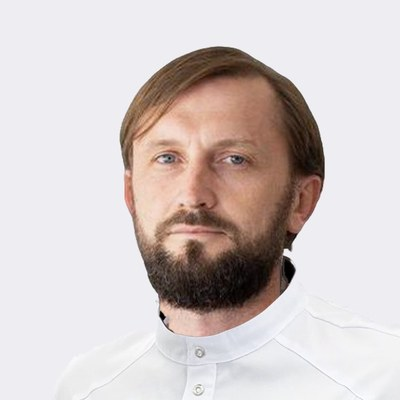
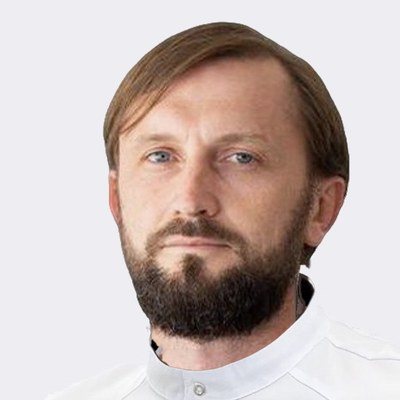
Поникаров: лицо в кружке крупнее (как у Мефаевой)

diff --git a/app-concept.html b/app-concept.html
@@ -6,9 +6,9 @@
   <title>Приложение «Колибри» — концепция</title>
   <meta name="description" content="Концепция мобильного приложения детской клиники «Колибри»: функционал по референсу, экраны в фирменном стиле, интеграция с МИС МЕДМИС.">
   <link rel="icon" href="img/logo.png" type="image/png">
-  <link rel="stylesheet" href="css/fonts.css?v=202610061326">
+  <link rel="stylesheet" href="css/fonts.css?v=202610061332">
 
-  <link rel="stylesheet" href="css/style.css?v=202610061326">
+  <link rel="stylesheet" href="css/style.css?v=202610061332">
   <style>
     /* ---------- страница ---------- */
     .concept-hero { background: linear-gradient(120deg, var(--p600), var(--p800)); color: #fff; border-radius: 32px; padding: 44px 48px; margin-top: 24px; display: grid; grid-template-columns: 1.2fr .8fr; gap: 32px; align-items: center; position: relative; overflow: hidden; }
@@ -777,8 +777,8 @@
   <symbol id="a-alert" viewBox="0 0 24 24" fill="none" stroke="currentColor" stroke-width="2" stroke-linecap="round" stroke-linejoin="round"><circle cx="12" cy="12" r="9"/><path d="M12 7v6M12 16h.01"/></symbol>
 </svg>
 
-<script src="js/data.js?v=202610061326"></script>
-<script src="js/photos.js?v=202610061326"></script>
-<script src="js/main.js?v=202610061326"></script>
+<script src="js/data.js?v=202610061332"></script>
+<script src="js/photos.js?v=202610061332"></script>
+<script src="js/main.js?v=202610061332"></script>
 </body>
 </html>

diff --git a/index.html b/index.html
@@ -6,9 +6,9 @@
   <title>Детская клиника «Колибри» — Симферополь, с. Мирное | Забота с первых дней</title>
   <meta name="description" content="Детская клиника «Колибри» в с. Мирное (Симферопольский район): педиатр-неонатолог, сопровождение недоношенных детей, УЗИ экспертного класса от 0 до 99 лет, вакцинация с рождения. Запись: +7 (978) 130-00-30">
   <link rel="icon" href="img/logo.png" type="image/png">
-  <link rel="stylesheet" href="css/fonts.css?v=202610061326">
+  <link rel="stylesheet" href="css/fonts.css?v=202610061332">
 
-  <link rel="stylesheet" href="css/style.css?v=202610061326">
+  <link rel="stylesheet" href="css/style.css?v=202610061332">
 </head>
 <body>
 
@@ -236,8 +236,8 @@
   </div>
 </section>
 
-<script src="js/data.js?v=202610061326"></script>
-<script src="js/photos.js?v=202610061326"></script>
-<script src="js/main.js?v=202610061326"></script>
+<script src="js/data.js?v=202610061332"></script>
+<script src="js/photos.js?v=202610061332"></script>
+<script src="js/main.js?v=202610061332"></script>
 </body>
 </html>

diff --git a/ceny.html b/ceny.html
@@ -6,9 +6,9 @@
   <title>Программы наблюдения и цены — Детская клиника «Колибри», с. Мирное</title>
   <meta name="description" content="Цены детской клиники «Колибри»: программы наблюдения детей от рождения до 6 и до 12 месяцев, осмотры педиатра, неонатолога, офтальмолога с сопровождением в мессенджере, пакет для недоношенных детей.">
   <link rel="icon" href="img/logo.png" type="image/png">
-  <link rel="stylesheet" href="css/fonts.css?v=202610061326">
+  <link rel="stylesheet" href="css/fonts.css?v=202610061332">
 
-  <link rel="stylesheet" href="css/style.css?v=202610061326">
+  <link rel="stylesheet" href="css/style.css?v=202610061332">
 </head>
 <body>
 
@@ -62,8 +62,8 @@
   </div>
 </section>
 
-<script src="js/data.js?v=202610061326"></script>
-<script src="js/photos.js?v=202610061326"></script>
-<script src="js/main.js?v=202610061326"></script>
+<script src="js/data.js?v=202610061332"></script>
+<script src="js/photos.js?v=202610061332"></script>
+<script src="js/main.js?v=202610061332"></script>
 </body>
 </html>

diff --git a/uslugi.html b/uslugi.html
@@ -6,9 +6,9 @@
   <title>Услуги — Детская клиника «Колибри», с. Мирное</title>
   <meta name="description" content="Услуги детской клиники «Колибри»: педиатр-неонатолог, сопровождение недоношенных детей, ортопед, хирург и уролог, невролог, офтальмолог, ЛОР, психолог, медсестра, консультант по грудному вскармливанию.">
   <link rel="icon" href="img/logo.png" type="image/png">
-  <link rel="stylesheet" href="css/fonts.css?v=202610061326">
+  <link rel="stylesheet" href="css/fonts.css?v=202610061332">
 
-  <link rel="stylesheet" href="css/style.css?v=202610061326">
+  <link rel="stylesheet" href="css/style.css?v=202610061332">
 </head>
 <body>
 
@@ -56,8 +56,8 @@
   </div>
 </section>
 
-<script src="js/data.js?v=202610061326"></script>
-<script src="js/photos.js?v=202610061326"></script>
-<script src="js/main.js?v=202610061326"></script>
+<script src="js/data.js?v=202610061332"></script>
+<script src="js/photos.js?v=202610061332"></script>
+<script src="js/main.js?v=202610061332"></script>
 </body>
 </html>

diff --git a/uzi.html b/uzi.html
@@ -6,9 +6,9 @@
   <title>УЗИ экспертного класса от 0 до 99 лет — Детская клиника «Колибри», с. Мирное</title>
   <meta name="description" content="Все виды УЗИ на аппарате экспертного класса: ЭхоКГ новорождённым весом до 3 кг, скрининг в 1 месяц, эластография, сосуды, лёгкие, кожа. Детям и взрослым. Запись: +7 (978) 130-00-30">
   <link rel="icon" href="img/logo.png" type="image/png">
-  <link rel="stylesheet" href="css/fonts.css?v=202610061326">
+  <link rel="stylesheet" href="css/fonts.css?v=202610061332">
 
-  <link rel="stylesheet" href="css/style.css?v=202610061326">
+  <link rel="stylesheet" href="css/style.css?v=202610061332">
 </head>
 <body>
 
@@ -74,8 +74,8 @@
   </div>
 </section>
 
-<script src="js/data.js?v=202610061326"></script>
-<script src="js/photos.js?v=202610061326"></script>
-<script src="js/main.js?v=202610061326"></script>
+<script src="js/data.js?v=202610061332"></script>
+<script src="js/photos.js?v=202610061332"></script>
+<script src="js/main.js?v=202610061332"></script>
 </body>
 </html>

diff --git a/rostomer.html b/rostomer.html
@@ -5,9 +5,9 @@
   <meta name="viewport" content="width=device-width, initial-scale=1">
   <title>Ростомер «Колибри» — варианты</title>
   <link rel="icon" href="img/logo.png" type="image/png">
-  <link rel="stylesheet" href="css/fonts.css?v=202610061326">
+  <link rel="stylesheet" href="css/fonts.css?v=202610061332">
 
-  <link rel="stylesheet" href="css/style.css?v=202610061326">
+  <link rel="stylesheet" href="css/style.css?v=202610061332">
   <style>
     .intro { background: #fff; border-radius: var(--radius); padding: 24px 28px; box-shadow: var(--shadow); margin-bottom: 28px; }
     .intro p { margin: 0 0 8px; font-size: 15px; }
@@ -89,10 +89,10 @@
   </div>
 </section>
 
-<script src="js/data.js?v=202610061326"></script>
-<script src="js/photos.js?v=202610061326"></script>
-<script src="js/main.js?v=202610061326"></script>
-<script src="js/rostomer.js?v=202610061326"></script>
+<script src="js/data.js?v=202610061332"></script>
+<script src="js/photos.js?v=202610061332"></script>
+<script src="js/main.js?v=202610061332"></script>
+<script src="js/rostomer.js?v=202610061332"></script>
 <script>
 (function () {
   window.ROSTOMER.variants.forEach(function (v, i) {

diff --git a/o-klinike.html b/o-klinike.html
@@ -6,9 +6,9 @@
   <title>О клинике — Детская клиника «Колибри», с. Мирное</title>
   <meta name="description" content="Детская клиника «Колибри» в с. Мирное Симферопольского района: врачи высшей категории, УЗИ экспертного класса, сопровождение недоношенных детей, вакцинация с рождения.">
   <link rel="icon" href="img/logo.png" type="image/png">
-  <link rel="stylesheet" href="css/fonts.css?v=202610061326">
+  <link rel="stylesheet" href="css/fonts.css?v=202610061332">
 
-  <link rel="stylesheet" href="css/style.css?v=202610061326">
+  <link rel="stylesheet" href="css/style.css?v=202610061332">
 </head>
 <body>
 
@@ -90,8 +90,8 @@
   </div>
 </section>
 
-<script src="js/data.js?v=202610061326"></script>
-<script src="js/photos.js?v=202610061326"></script>
-<script src="js/main.js?v=202610061326"></script>
+<script src="js/data.js?v=202610061332"></script>
+<script src="js/photos.js?v=202610061332"></script>
+<script src="js/main.js?v=202610061332"></script>
 </body>
 </html>

diff --git a/kontakty.html b/kontakty.html
@@ -6,9 +6,9 @@
   <title>Контакты — Детская клиника «Колибри», с. Мирное, ул. Крымской Весны, 9к1</title>
   <meta name="description" content="Детская клиника «Колибри»: Республика Крым, Симферопольский р-н, с. Мирное, ул. Крымской Весны, 9к1. Телефон +7 (978) 130-00-30. Схема проезда и режим работы.">
   <link rel="icon" href="img/logo.png" type="image/png">
-  <link rel="stylesheet" href="css/fonts.css?v=202610061326">
+  <link rel="stylesheet" href="css/fonts.css?v=202610061332">
 
-  <link rel="stylesheet" href="css/style.css?v=202610061326">
+  <link rel="stylesheet" href="css/style.css?v=202610061332">
 </head>
 <body>
 
@@ -54,8 +54,8 @@
   </div>
 </section>
 
-<script src="js/data.js?v=202610061326"></script>
-<script src="js/photos.js?v=202610061326"></script>
-<script src="js/main.js?v=202610061326"></script>
+<script src="js/data.js?v=202610061332"></script>
+<script src="js/photos.js?v=202610061332"></script>
+<script src="js/main.js?v=202610061332"></script>
 </body>
 </html>

diff --git a/vrachi.html b/vrachi.html
@@ -6,9 +6,9 @@
   <title>Врачи — Детская клиника «Колибри», с. Мирное</title>
   <meta name="description" content="Врачи детской клиники «Колибри»: педиатры-неонатологи высшей категории, ортопед, детский хирург и уролог, невролог, офтальмологи, ЛОР, врачи УЗИ. Запись: +7 (978) 130-00-30">
   <link rel="icon" href="img/logo.png" type="image/png">
-  <link rel="stylesheet" href="css/fonts.css?v=202610061326">
+  <link rel="stylesheet" href="css/fonts.css?v=202610061332">
 
-  <link rel="stylesheet" href="css/style.css?v=202610061326">
+  <link rel="stylesheet" href="css/style.css?v=202610061332">
 </head>
 <body>
 
@@ -47,8 +47,8 @@
   </div>
 </section>
 
-<script src="js/data.js?v=202610061326"></script>
-<script src="js/photos.js?v=202610061326"></script>
-<script src="js/main.js?v=202610061326"></script>
+<script src="js/data.js?v=202610061332"></script>
+<script src="js/photos.js?v=202610061332"></script>
+<script src="js/main.js?v=202610061332"></script>
 </body>
 </html>

diff --git a/poleznoe.html b/poleznoe.html
@@ -6,9 +6,9 @@
   <title>Полезное для родителей — Детская клиника «Колибри»</title>
   <meta name="description" content="Статьи врачей детской клиники «Колибри»: осмотры в первый месяц, УЗИ сердца новорождённому, прививки недоношенным, когда нужен невролог.">
   <link rel="icon" href="img/logo.png" type="image/png">
-  <link rel="stylesheet" href="css/fonts.css?v=202610061326">
+  <link rel="stylesheet" href="css/fonts.css?v=202610061332">
 
-  <link rel="stylesheet" href="css/style.css?v=202610061326">
+  <link rel="stylesheet" href="css/style.css?v=202610061332">
 </head>
 <body>
 
@@ -32,8 +32,8 @@
   </div>
 </section>
 
-<script src="js/data.js?v=202610061326"></script>
-<script src="js/photos.js?v=202610061326"></script>
-<script src="js/main.js?v=202610061326"></script>
+<script src="js/data.js?v=202610061332"></script>
+<script src="js/photos.js?v=202610061332"></script>
+<script src="js/main.js?v=202610061332"></script>
 </body>
 </html>

diff --git a/politika.html b/politika.html
@@ -6,8 +6,8 @@
   <title>Политика конфиденциальности — Детская клиника «Колибри»</title>
   <meta name="description" content="Политика обработки персональных данных пользователей сайта детской клиники «Колибри».">
   <link rel="icon" href="img/logo.png" type="image/png">
-  <link rel="stylesheet" href="css/fonts.css?v=202610061326">
-  <link rel="stylesheet" href="css/style.css?v=202610061326">
+  <link rel="stylesheet" href="css/fonts.css?v=202610061332">
+  <link rel="stylesheet" href="css/style.css?v=202610061332">
 </head>
 <body>
 
@@ -78,8 +78,8 @@
   </div>
 </section>
 
-<script src="js/data.js?v=202610061326"></script>
-<script src="js/photos.js?v=202610061326"></script>
-<script src="js/main.js?v=202610061326"></script>
+<script src="js/data.js?v=202610061332"></script>
+<script src="js/photos.js?v=202610061332"></script>
+<script src="js/main.js?v=202610061332"></script>
 </body>
 </html>

diff --git a/soglasie.html b/soglasie.html
@@ -7,8 +7,8 @@
   <meta name="description" content="Согласие на обработку персональных данных при отправке заявки на сайте детской клиники «Колибри».">
   <meta name="robots" content="noindex">
   <link rel="icon" href="img/logo.png" type="image/png">
-  <link rel="stylesheet" href="css/fonts.css?v=202610061326">
-  <link rel="stylesheet" href="css/style.css?v=202610061326">
+  <link rel="stylesheet" href="css/fonts.css?v=202610061332">
+  <link rel="stylesheet" href="css/style.css?v=202610061332">
 </head>
 <body>
 
@@ -57,8 +57,8 @@
   </div>
 </section>
 
-<script src="js/data.js?v=202610061326"></script>
-<script src="js/photos.js?v=202610061326"></script>
-<script src="js/main.js?v=202610061326"></script>
+<script src="js/data.js?v=202610061332"></script>
+<script src="js/photos.js?v=202610061332"></script>
+<script src="js/main.js?v=202610061332"></script>
 </body>
 </html>
